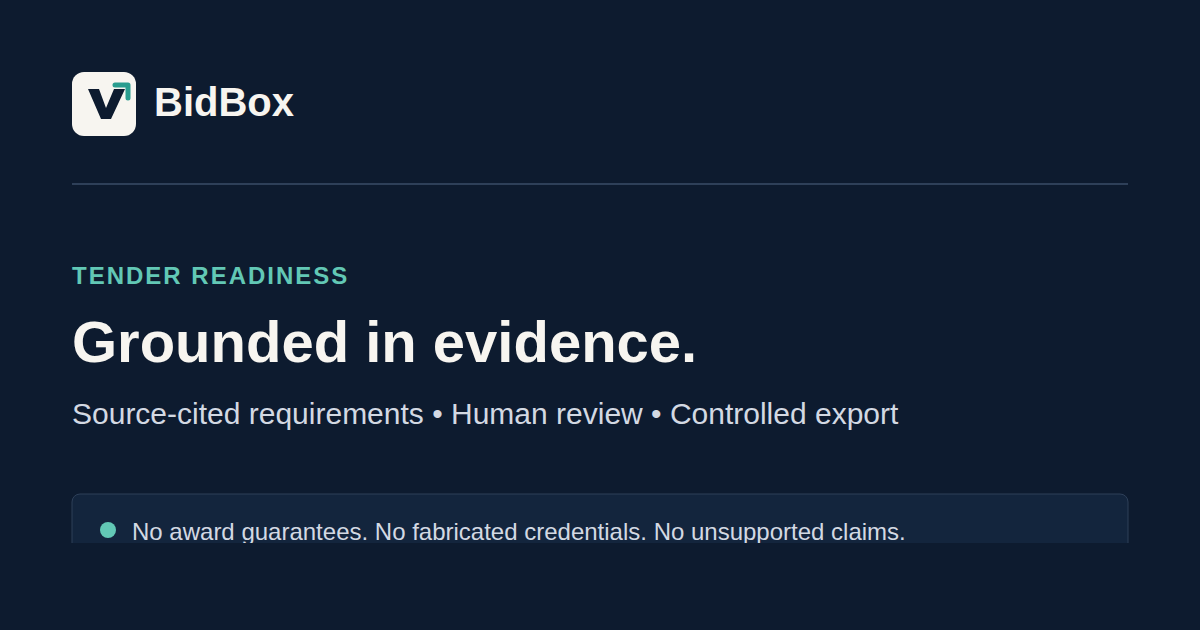
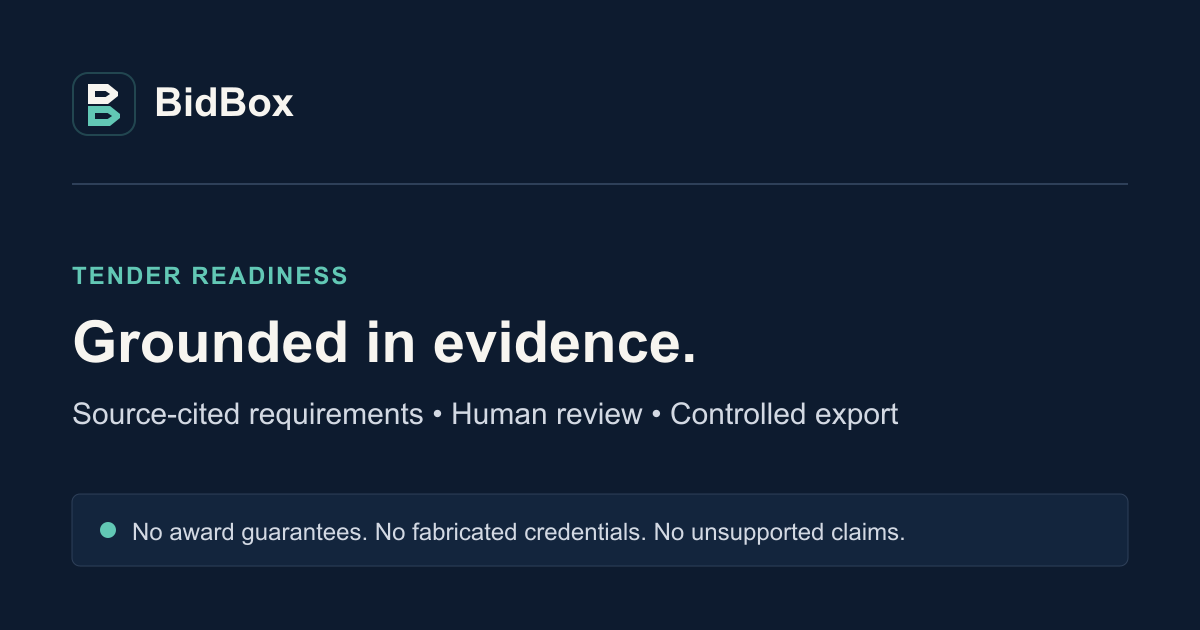
feat(brand): replace legacy V with BidBox box monogram (#62)

diff --git a/artifacts/bidbox-workbench/src/components/bidbox-mark.test.tsx b/artifacts/bidbox-workbench/src/components/bidbox-mark.test.tsx
@@ -1,0 +1,81 @@
+import { readFileSync } from "node:fs";
+import { resolve } from "node:path";
+import { render, screen } from "@testing-library/react";
+import { describe, expect, it } from "vitest";
+import { BidBoxMark, BidBoxSymbol } from "./bidbox-mark";
+
+const workbench = resolve(import.meta.dirname, "../..");
+
+function paths(element: ParentNode) {
+  return Array.from(element.querySelectorAll("path"), (path) => ({
+    d: path.getAttribute("d")?.replace(/\s+/gu, " ").trim(),
+    fill: path.getAttribute("fill")?.toLowerCase(),
+    fillRule: (path.getAttribute("fill-rule") ?? "nonzero").toLowerCase(),
+  }));
+}
+
+describe("BidBox identity", () => {
+  it("supports the default, custom and icon-only wordmarks", () => {
+    const { container, rerender } = render(<BidBoxMark />);
+    expect(screen.getByText("BidBox")).toBeVisible();
+
+    rerender(<BidBoxMark label="BidBox Workbench" />);
+    expect(screen.getByText("BidBox Workbench")).toBeVisible();
+    expect(screen.queryByText("BidBox")).not.toBeInTheDocument();
+
+    rerender(<BidBoxMark label={null} />);
+    expect(container.textContent).toBe("");
+    expect(container.querySelectorAll("svg")).toHaveLength(1);
+  });
+
+  it("keeps the symbol decorative and lets callers override its size", () => {
+    const { container } = render(
+      <BidBoxSymbol className="size-12 text-primary" />,
+    );
+    const symbol = container.querySelector("svg");
+    expect(symbol).toHaveAttribute("aria-hidden", "true");
+    expect(symbol).toHaveAttribute("focusable", "false");
+    expect(symbol).not.toHaveAttribute("tabindex");
+    expect(symbol).toHaveAttribute("viewBox", "0 0 32 32");
+    expect(symbol).toHaveClass("size-12", "shrink-0", "text-primary");
+    expect(symbol).not.toHaveClass("size-8");
+    expect(screen.queryByRole("img")).not.toBeInTheDocument();
+  });
+
+  it("merges wordmark layout classes without changing the default symbol size", () => {
+    const { container } = render(<BidBoxMark className="gap-4 text-primary" />);
+    expect(container.firstElementChild).toHaveClass(
+      "inline-flex",
+      "items-center",
+      "gap-4",
+      "text-primary",
+    );
+    expect(container.firstElementChild).not.toHaveClass("gap-2.5");
+    expect(container.querySelector("svg")).toHaveClass("size-8", "shrink-0");
+  });
+
+  it("uses the same two-path symbol in the application, favicon and social card", () => {
+    const { container } = render(<BidBoxSymbol />);
+    const symbolPaths = paths(container);
+    expect(symbolPaths).toHaveLength(2);
+
+    for (const asset of ["favicon.svg", "opengraph.svg"]) {
+      const markup = readFileSync(resolve(workbench, "public", asset), "utf8");
+      const document = new DOMParser().parseFromString(markup, "image/svg+xml");
+      expect(document.querySelector("parsererror"), asset).toBeNull();
+      expect(paths(document), asset).toEqual(symbolPaths);
+    }
+
+    const mockup = readFileSync(
+      resolve(
+        workbench,
+        "../mockup-sandbox/src/components/mockups/SignInLanding.tsx",
+      ),
+      "utf8",
+    );
+    for (const path of symbolPaths) {
+      expect(path.d).toBeTruthy();
+      expect(mockup).toContain(path.d);
+    }
+  });
+});

diff --git a/artifacts/bidbox-workbench/src/components/bidbox-mark.tsx b/artifacts/bidbox-workbench/src/components/bidbox-mark.tsx
@@ -1,5 +1,39 @@
 import { cn } from "@/lib/utils";
 
+/** Two stacked box forms make the BidBox B; keep public brand assets in sync. */
+export function BidBoxSymbol({ className }: { className?: string }) {
+  return (
+    <svg
+      aria-hidden="true"
+      focusable="false"
+      className={cn("size-8 shrink-0", className)}
+      viewBox="0 0 32 32"
+      fill="none"
+    >
+      <rect
+        x="0.5"
+        y="0.5"
+        width="31"
+        height="31"
+        rx="7.5"
+        fill="#0D1B2F"
+        stroke="#62C8B5"
+        strokeOpacity="0.25"
+      />
+      <path
+        fillRule="evenodd"
+        d="M8 6H18L23 10V12L18 16H8V6ZM11.5 9.5V12.5H16.8L19 11L16.8 9.5H11.5Z"
+        fill="#F7F5F0"
+      />
+      <path
+        fillRule="evenodd"
+        d="M8 17H19L24 21V23L19 27H8V17ZM11.5 20.5V23.5H17.8L20 22L17.8 20.5H11.5Z"
+        fill="#62C8B5"
+      />
+    </svg>
+  );
+}
+
 export function BidBoxMark({
   className,
   label = "BidBox",
@@ -9,19 +43,7 @@ export function BidBoxMark({
 }) {
   return (
     <span className={cn("inline-flex items-center gap-2.5", className)}>
-      <svg
-        aria-hidden="true"
-        className="size-8 shrink-0"
-        viewBox="0 0 32 32"
-        fill="none"
-      >
-        <rect width="32" height="32" rx="7" fill="currentColor" />
-        <path
-          d="M8.25 9.25 15.9 24 23.75 9.25h-4.4L15.9 17.1l-3.33-7.85H8.25Z"
-          fill="white"
-        />
-        <path d="M22.1 7.2h3.05l-1.35 2.7h-3.05l1.35-2.7Z" fill="#74d6c4" />
-      </svg>
+      <BidBoxSymbol />
       {label ? (
         <span className="text-base font-semibold tracking-[-0.02em]">
           {label}

diff --git a/artifacts/bidbox-workbench/src/components/public/landing-sections.tsx b/artifacts/bidbox-workbench/src/components/public/landing-sections.tsx
@@ -13,6 +13,7 @@ import {
 } from "lucide-react";
 import { BidAutopsyCta } from "@/components/public/public-primary-cta";
 import { BidAutopsySample } from "@/components/public/bid-autopsy-sample";
+import { BidBoxSymbol } from "@/components/bidbox-mark";
 
 const complianceDefects = [
   "Missing or expired compliance documents",
@@ -502,12 +503,7 @@ export function LandingSections() {
           aria-hidden="true"
           className="public-dark-glow pointer-events-none absolute inset-0"
         />
-        <span
-          aria-hidden="true"
-          className="public-display pointer-events-none absolute -bottom-32 -left-8 text-[24rem] leading-none text-sidebar-primary/5"
-        >
-          V
-        </span>
+        <BidBoxSymbol className="pointer-events-none absolute -bottom-32 -left-8 size-96 opacity-5" />
         <div className="content-shell relative grid gap-14 py-20 sm:py-24 lg:grid-cols-[0.82fr_1.18fr] lg:gap-20 lg:py-32">
           <div>
             <span className="flex size-12 items-center justify-center rounded-full border border-sidebar-primary/25 bg-sidebar-accent text-sidebar-primary">

diff --git a/artifacts/mockup-sandbox/src/components/mockups/SignInLanding.tsx b/artifacts/mockup-sandbox/src/components/mockups/SignInLanding.tsx
@@ -112,17 +112,18 @@ function RegistrarSeal() {
         </text>
       </g>
 
-      <text
-        x="60"
-        y="58"
-        textAnchor="middle"
-        dominantBaseline="central"
-        className="font-serif"
-        fontSize="23"
-        fill="currentColor"
-      >
-        VW
-      </text>
+      <g transform="translate(44 37)">
+        <path
+          fillRule="evenodd"
+          d="M8 6H18L23 10V12L18 16H8V6ZM11.5 9.5V12.5H16.8L19 11L16.8 9.5H11.5Z"
+          fill="#F7F5F0"
+        />
+        <path
+          fillRule="evenodd"
+          d="M8 17H19L24 21V23L19 27H8V17ZM11.5 20.5V23.5H17.8L20 22L17.8 20.5H11.5Z"
+          fill="#62C8B5"
+        />
+      </g>
       <line
         x1="47"
         y1="70.5"
